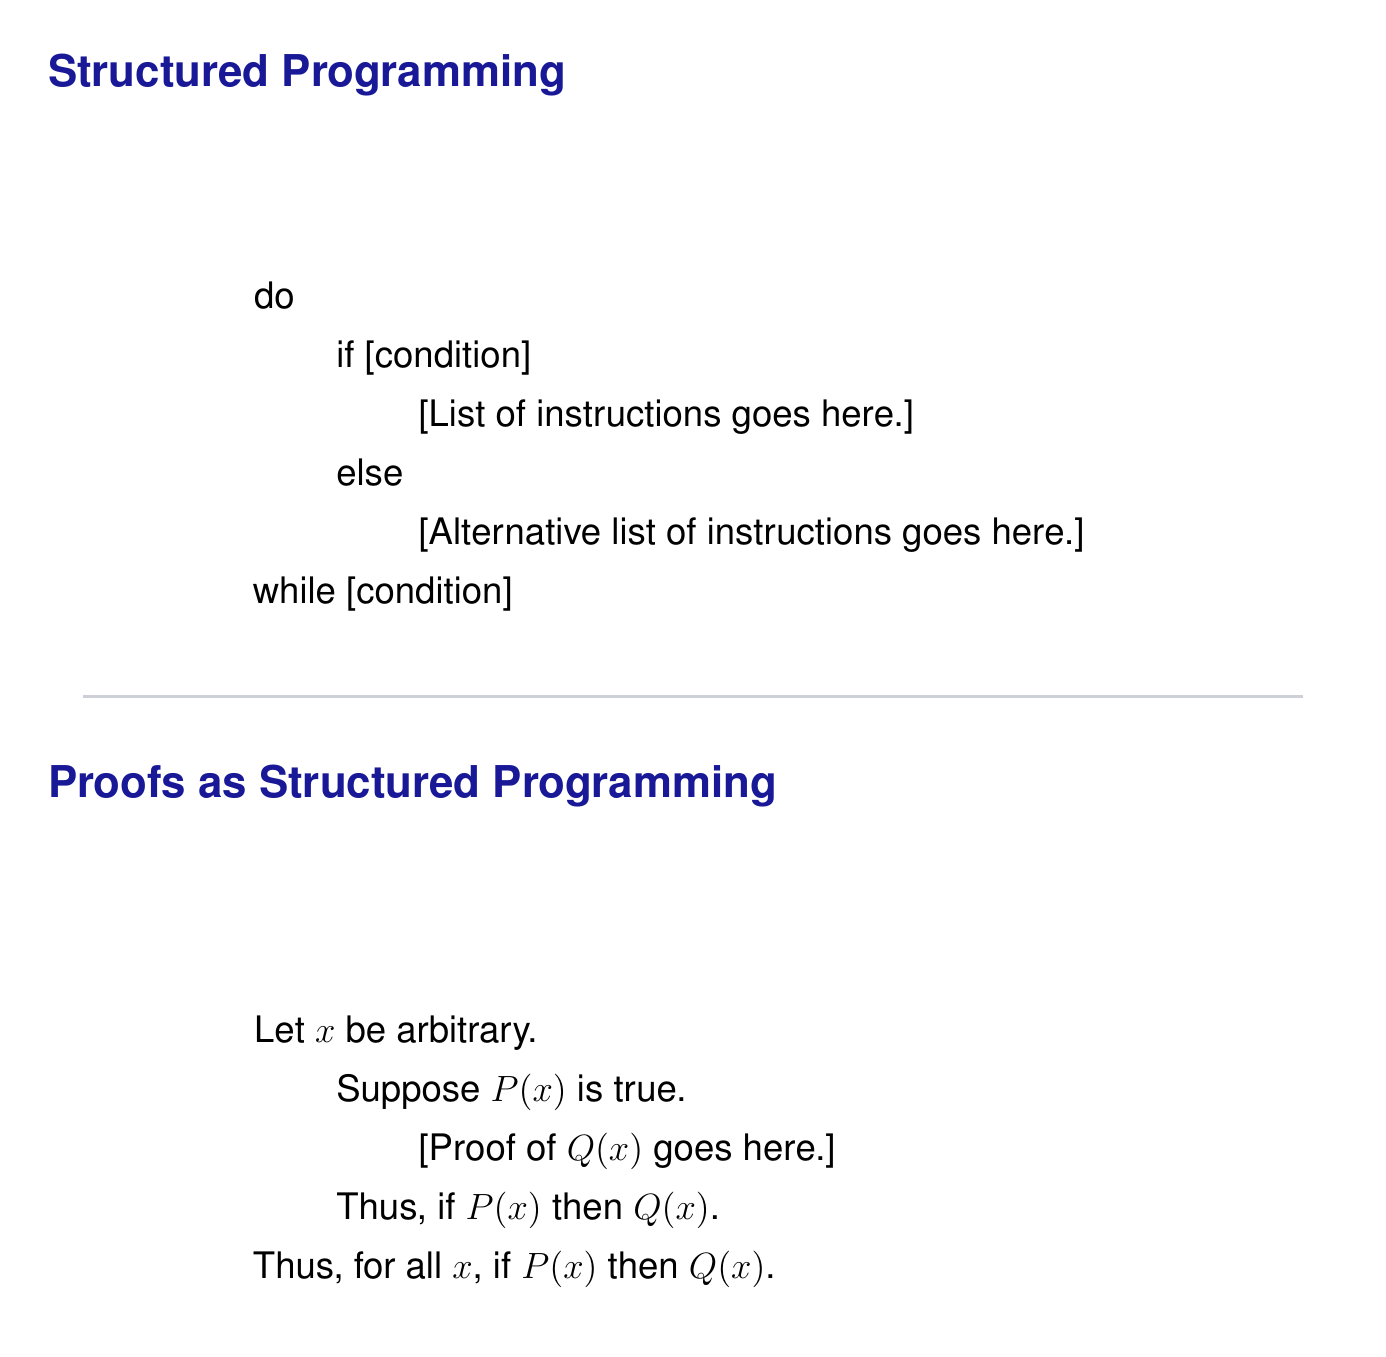
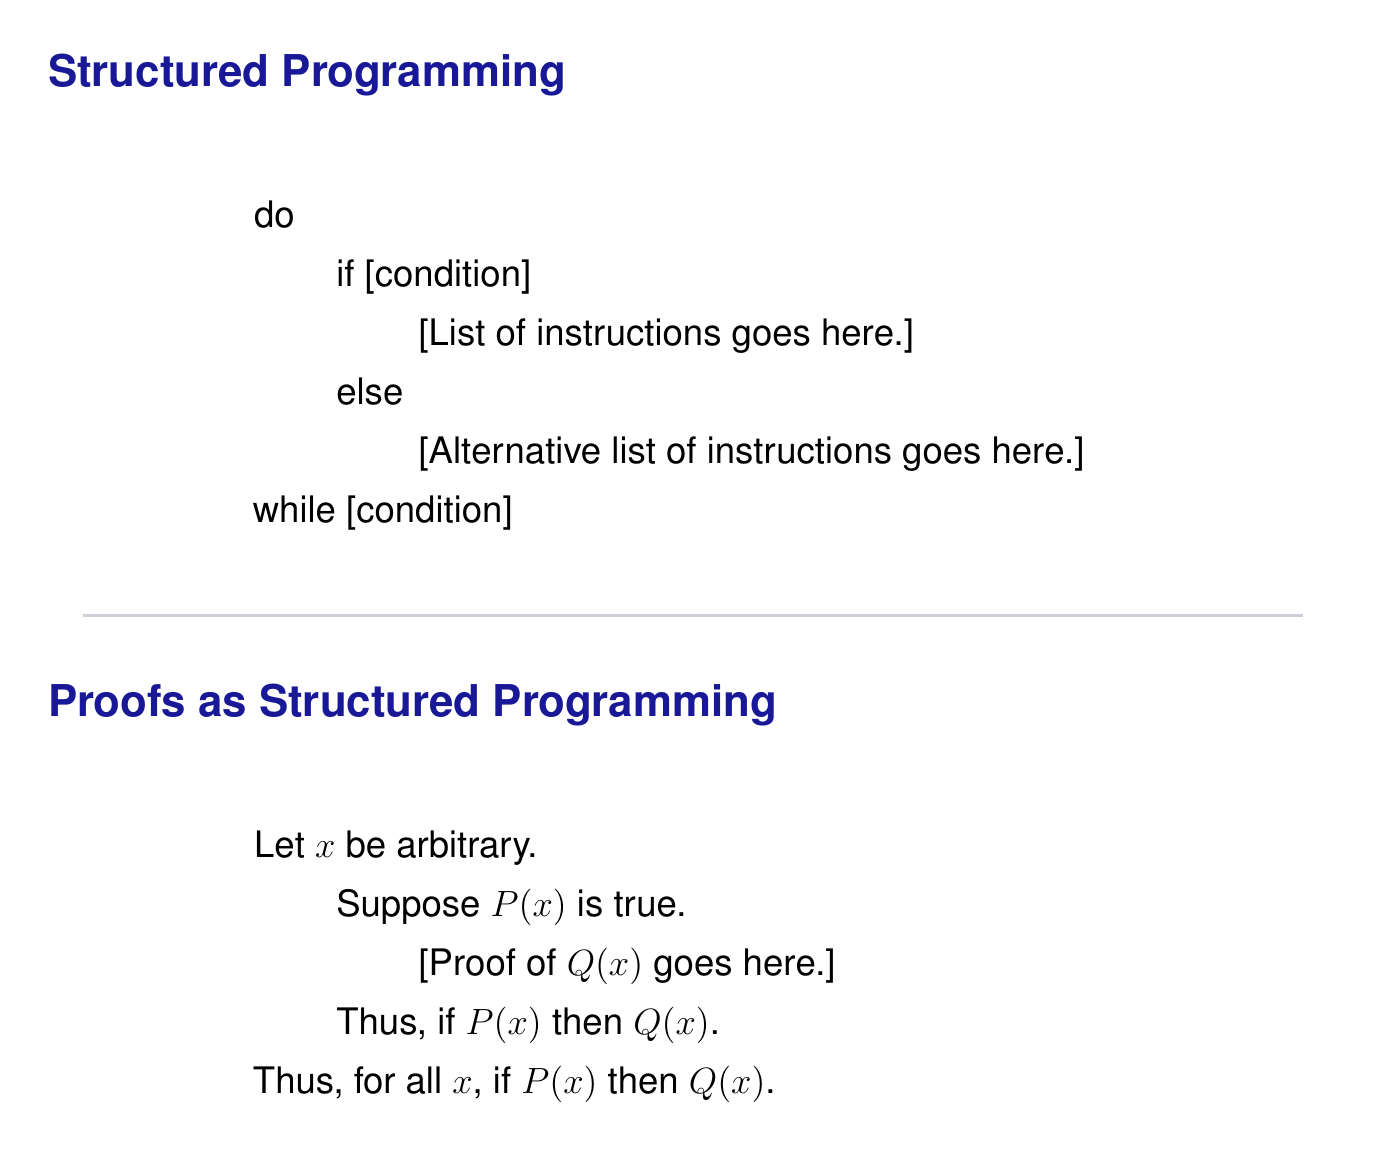
Top-align the two structured-programming slides
Removing the extra vspace was not enough: the deck centres frames
vertically, so sparse content drifts to the middle of the text area no
matter how little padding precedes it. Marking these two frames [t]
anchors the body under the title. Both now open at 13% of slide height,
matching the tightest slides in the deck, instead of 24% and 27%.

diff --git a/source/math1/main.tex b/source/math1/main.tex
@@ -67,8 +67,7 @@
 \end{frame}
 
 
-\begin{frame}{Structured Programming}
-\vspace{.15cm}
+\begin{frame}[t]{Structured Programming}
 \begin{center}
 \begin{minipage}{0.68\linewidth}
 \large
@@ -83,8 +82,7 @@ while [condition]
 \end{center}
 \end{frame}
 
-\begin{frame}{Proofs as Structured Programming}
-\vspace{.15cm}
+\begin{frame}[t]{Proofs as Structured Programming}
 \begin{center}
 \begin{minipage}{0.68\linewidth}
 \large
